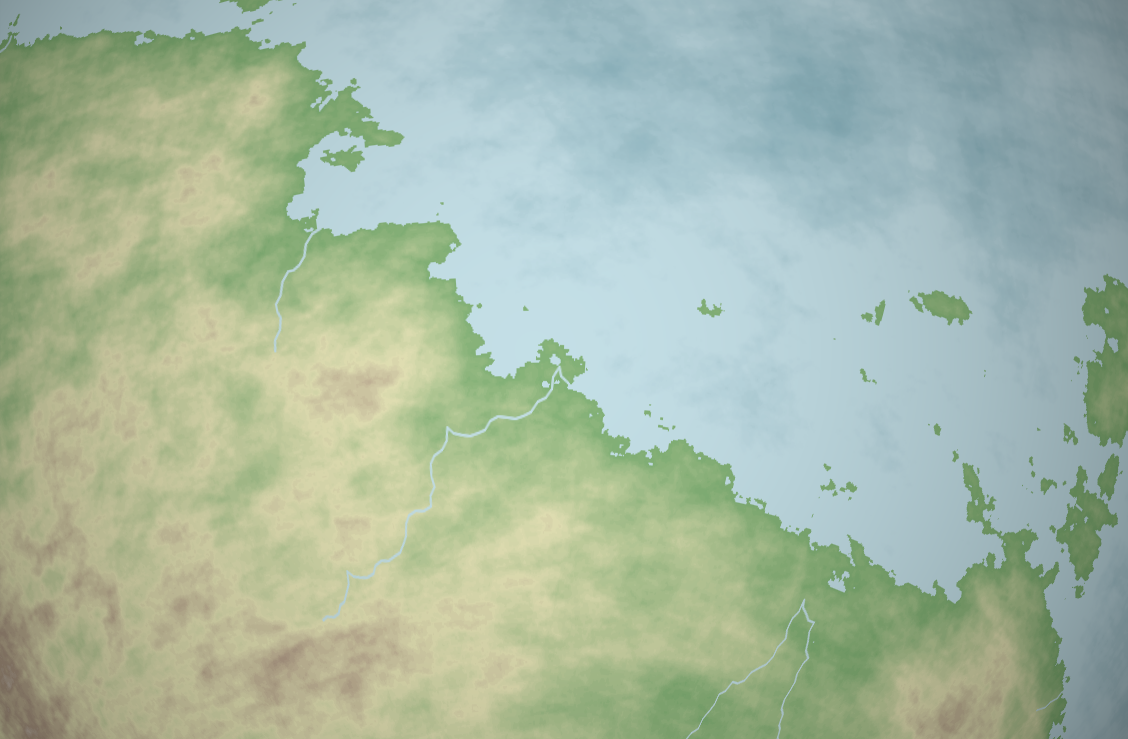
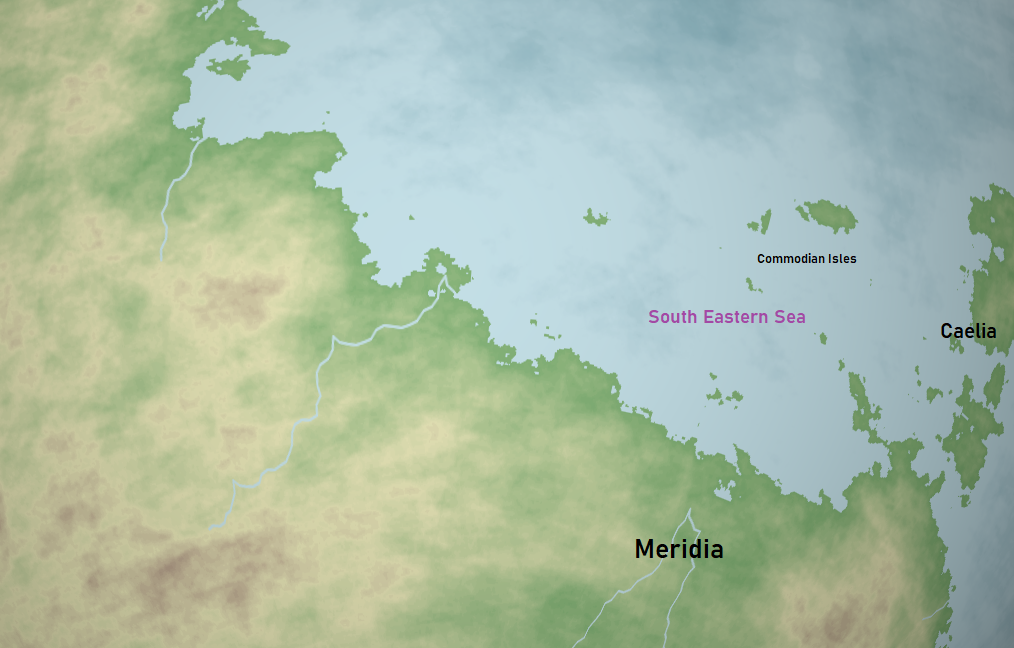
something

diff --git a/Locations/Land/old_world.md b/Locations/Land/old_world.md
@@ -2,6 +2,8 @@
 
 The "Old World" is a region on the [Pulchran](../Planes/pulchra.md) supercontinent [Praeia](../Planes/pulchra.md#praeia) in which the planet's history suggests the first civilized form of life had originated. Many of the races today can find their roots from somewhere in this region, therefore there is heavy religious influence to those who live there today. Some religions claim that when the gods walked the world, this is where they lay.
 
+Map of the Old World in 186 5A:
+
 ![Old World](../../Media/old_world.png)
 
 | Geography | |

diff --git a/index.md b/index.md
@@ -1,4 +1,4 @@
-# D&D Wiki v1.4.0
+# D&D Wiki v1.5.0
 
 ## Intro
 
@@ -25,7 +25,7 @@ The following is how the wiki is structured with information on each:
   - Towns - Towns, cities, and other dwellings
   - Planes - Planes of existence including dimensions and worlds/planets
 - [Objects](Objects/objects.md) - Artifacts and objects of significance
-- Media - Pictures and gifs that help illustrate any of the above
+- Media - Pictures and `.gif`s that help illustrate any of the above
 
 ## List of pages to be written
 

diff --git a/Locations/Planes/pulchra.md b/Locations/Planes/pulchra.md
@@ -54,7 +54,7 @@ A Pulchran year lasts 365 days over the course of 12 months. Each day is 24 hour
 
 ## Geography
 
-![](insert basic map of planet here)
+![Pulchra Labels](../../Media/pulchra_labels.png)
 
 ### Continents
 
